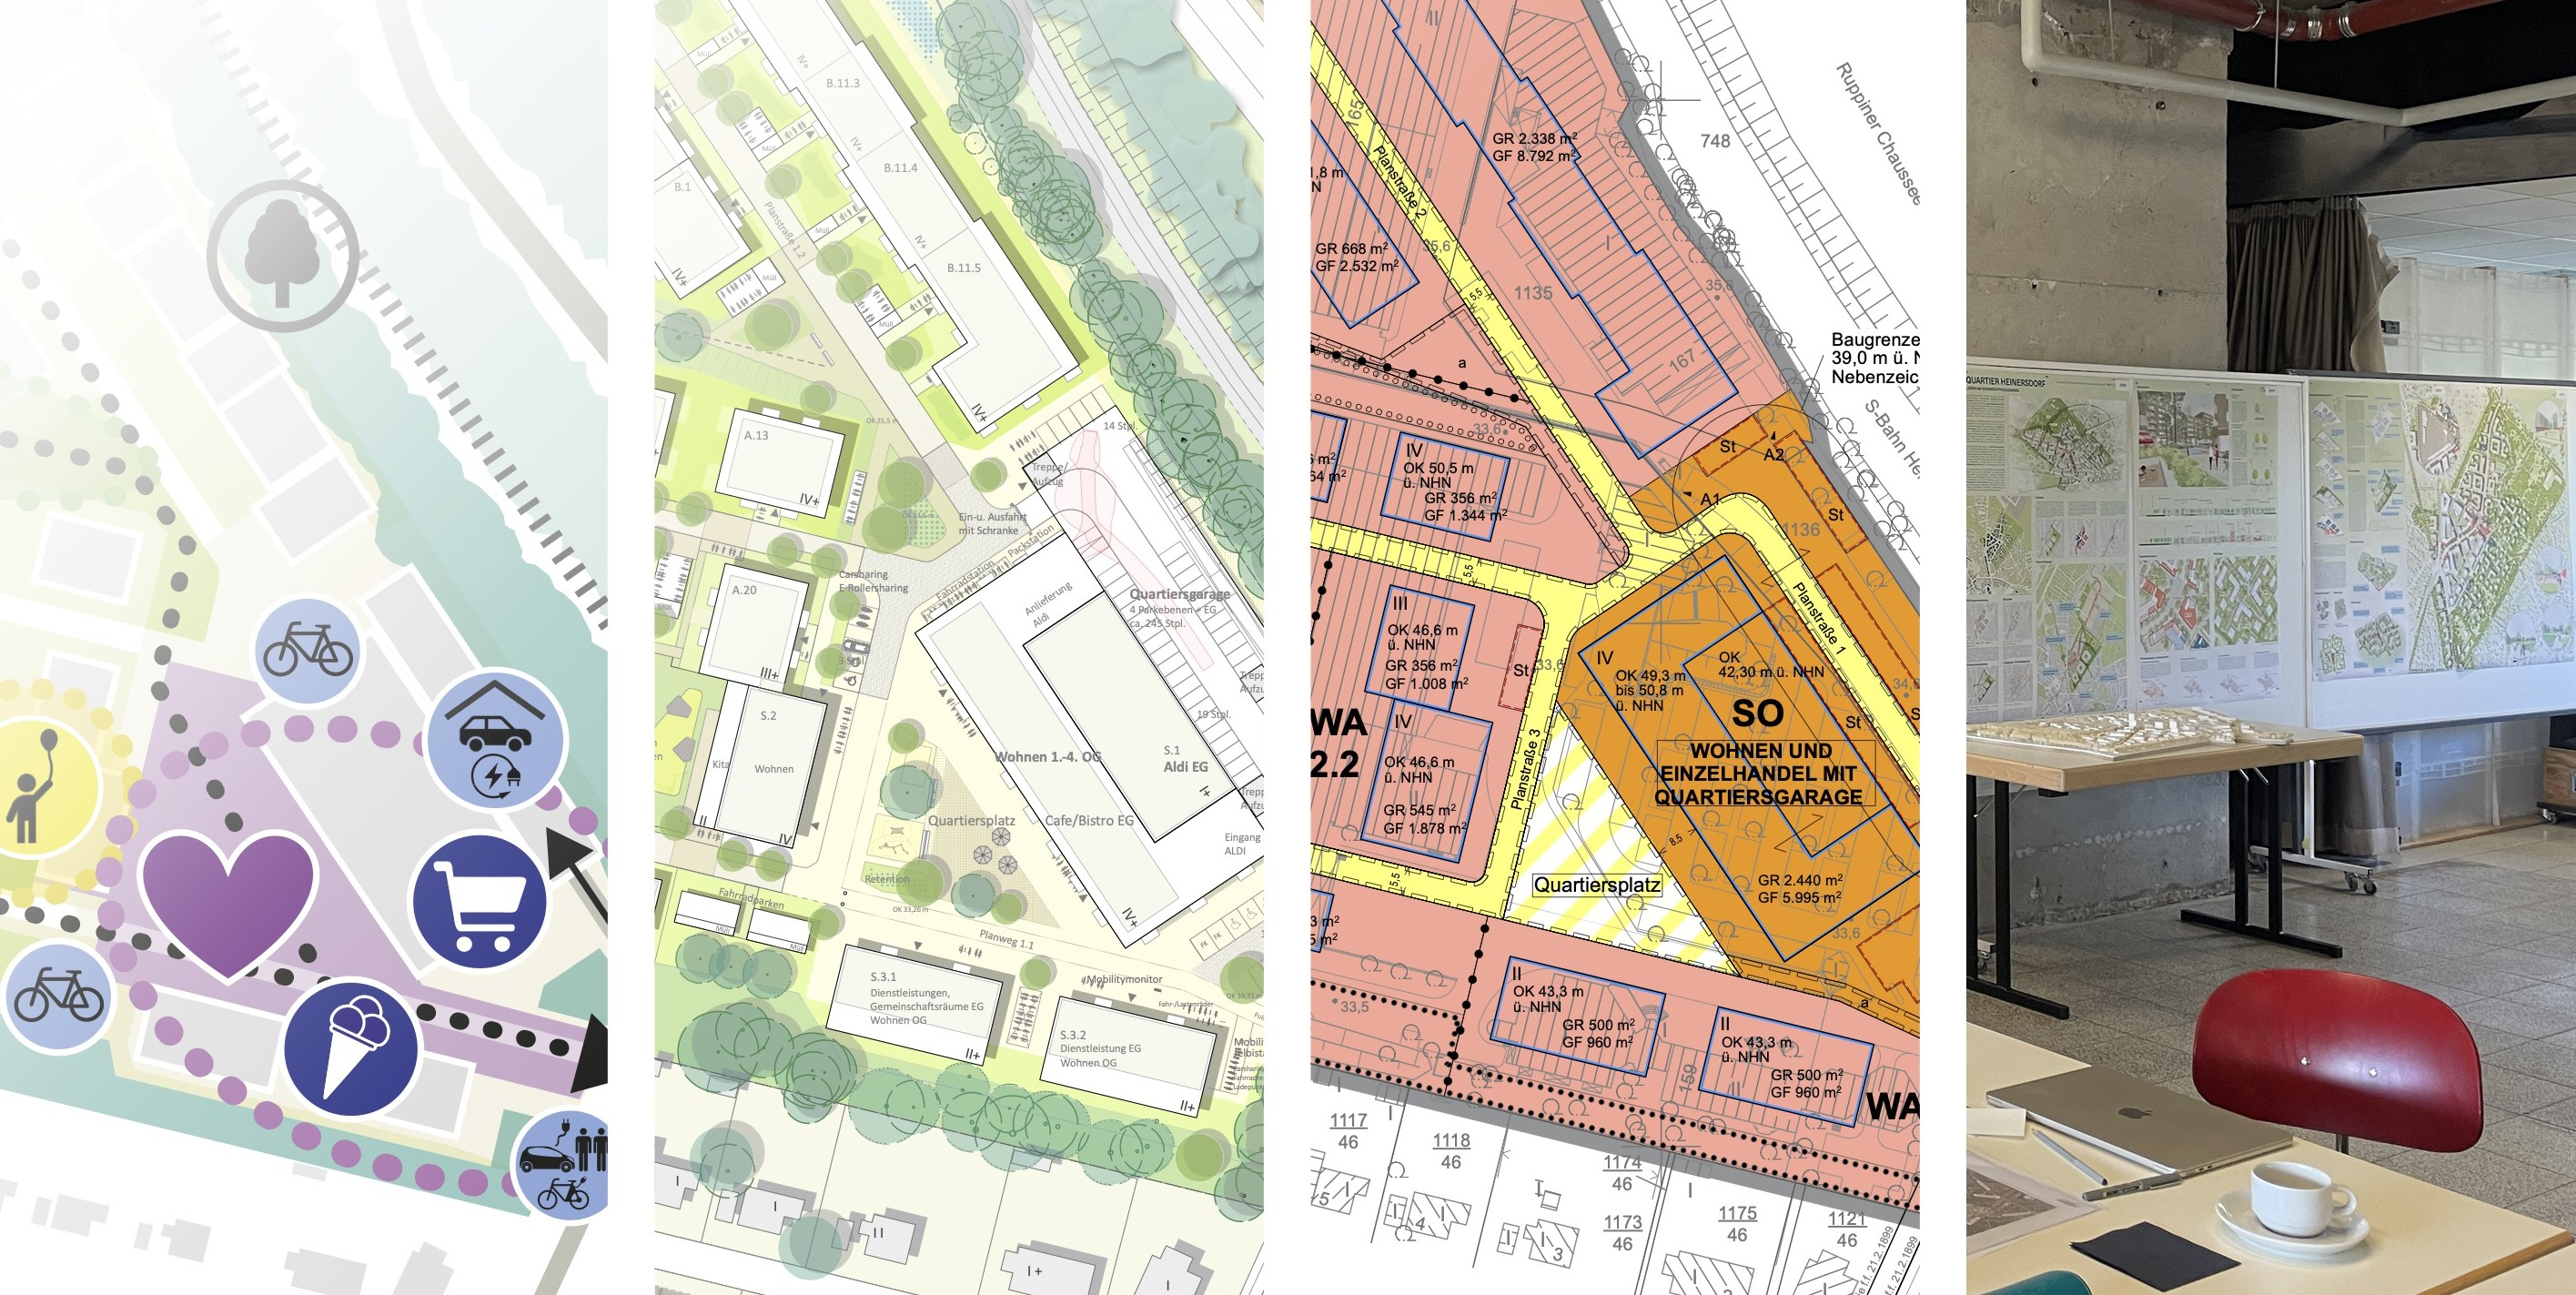
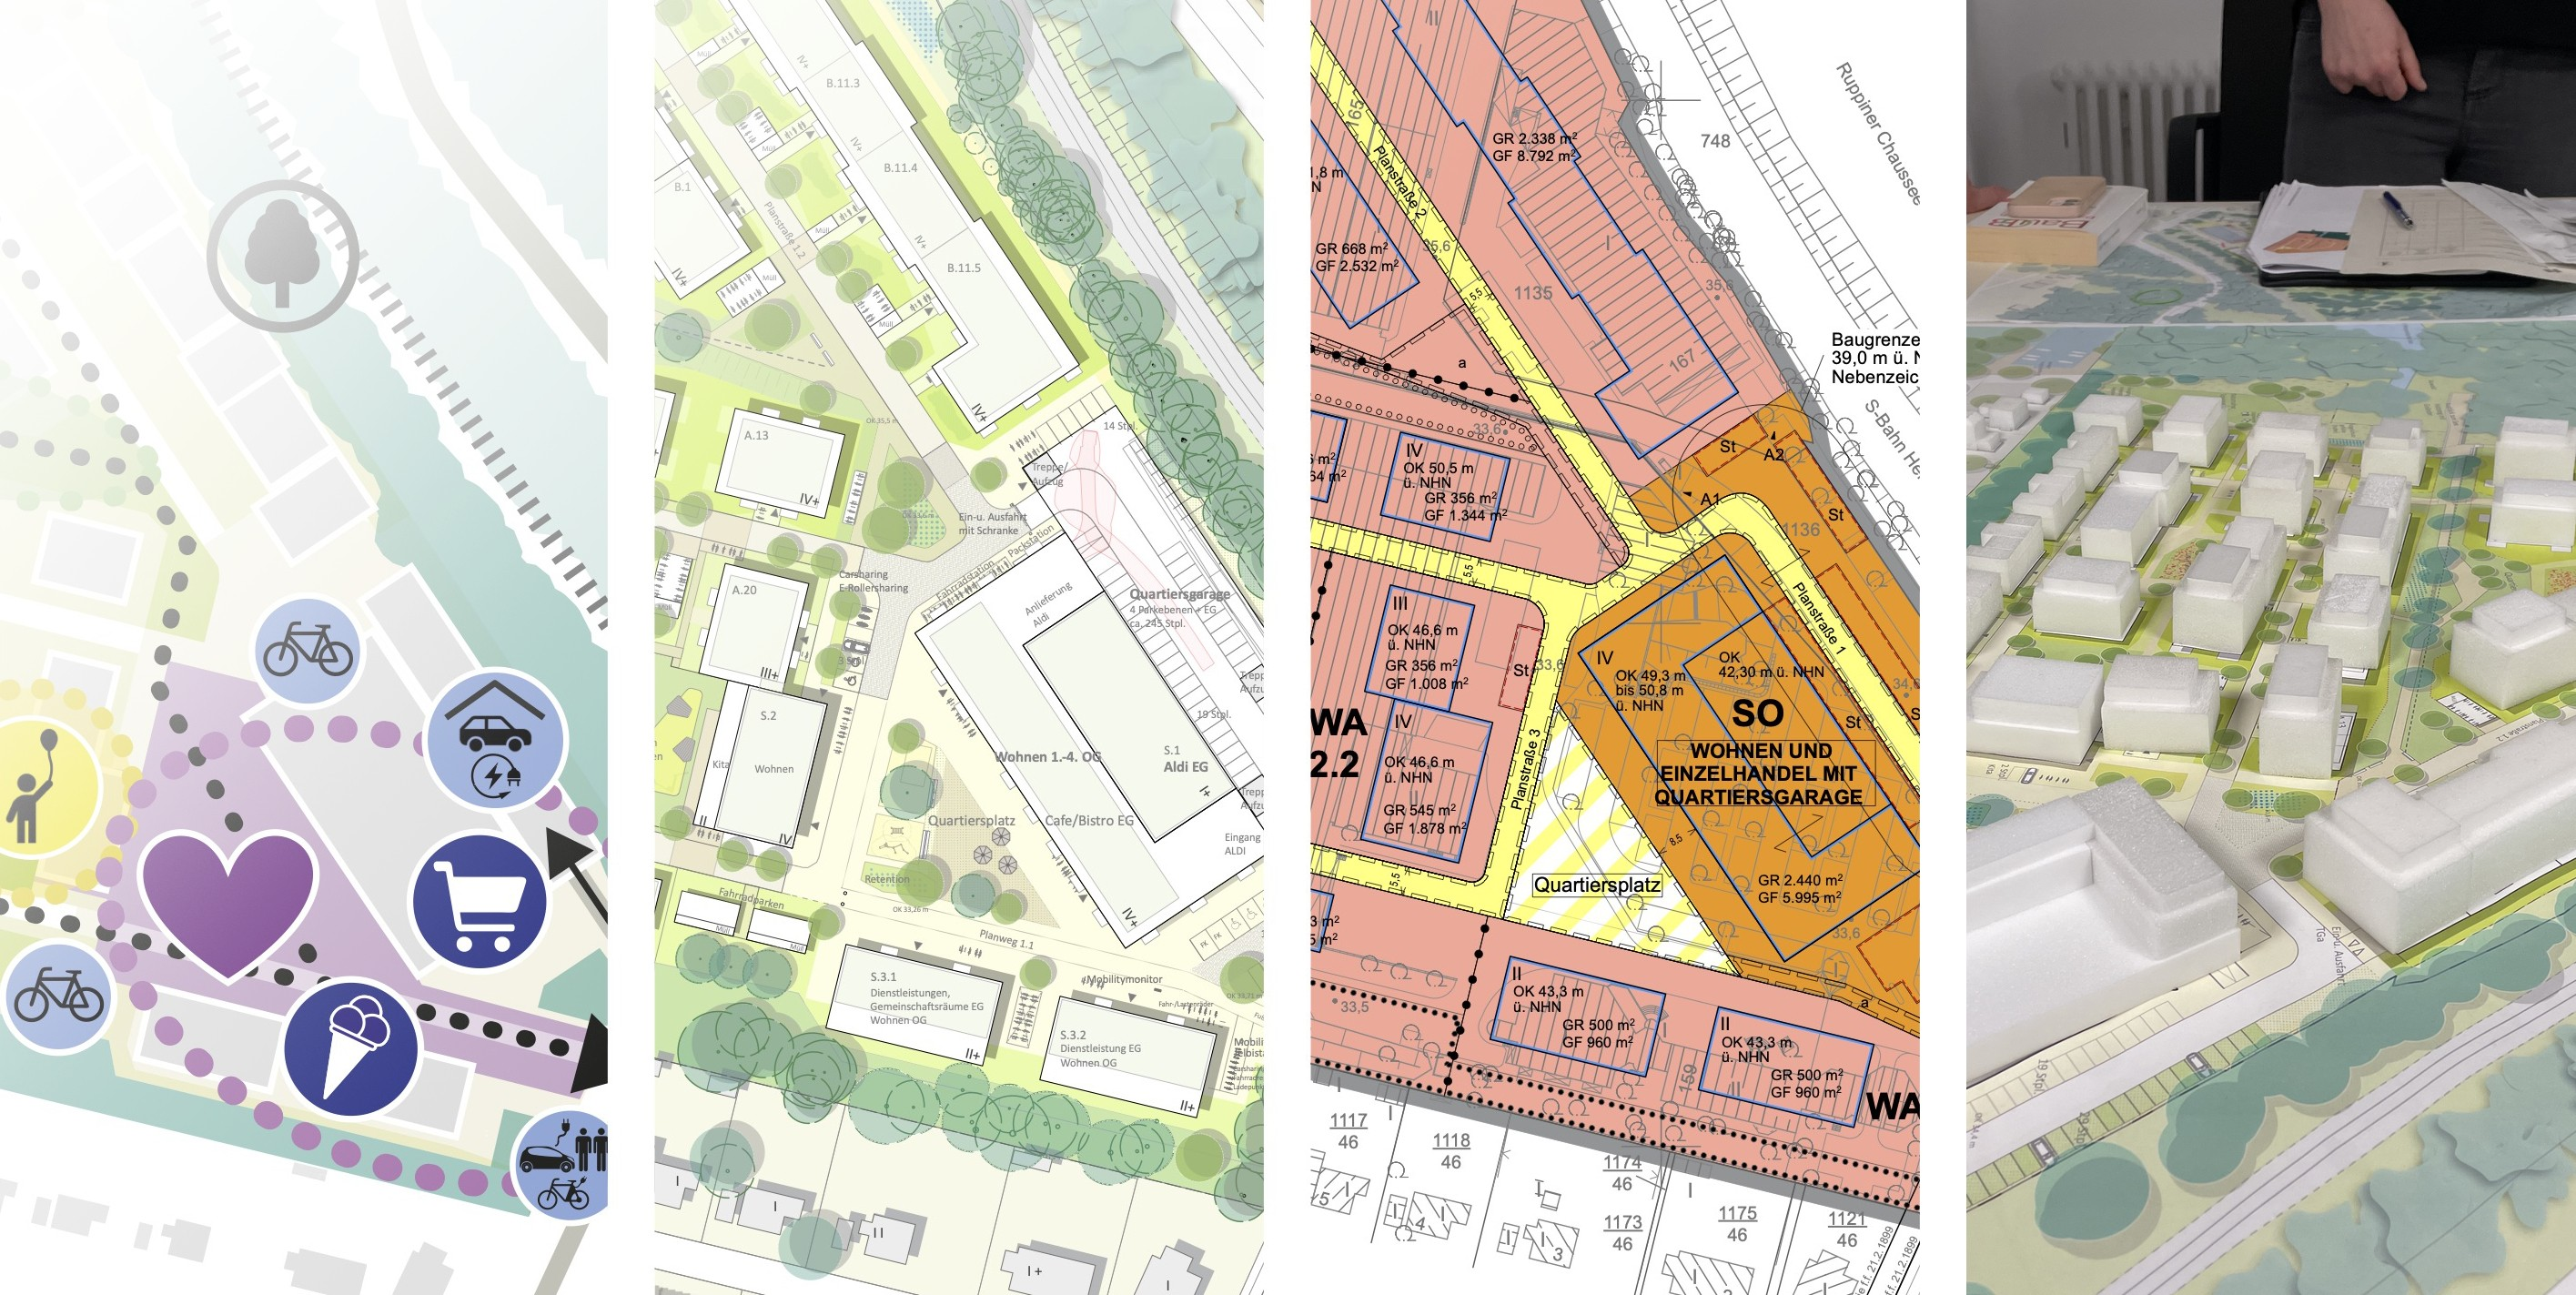
Home: fix hero hover/image misalignment across widths
Drop fixed heroHeight + objectFit:cover (which cropped the composite
when the guessed container width didn't match the real one) in favor
of height:auto. The image keeps its natural aspect ratio, so the
inset:0 hover overlay aligns to the strips at any screen width.

Changed region(s): [[0.746, 0.0, 1.0, 1.0]]

diff --git a/src/pages/Home.jsx b/src/pages/Home.jsx
@@ -53,15 +53,12 @@ export default function Home() {
   const contentCol = isMobile ? 'auto' : '3 / span 8'
   const contentColWide = isMobile ? 'auto' : '3 / span 9'
 
-  // The hero height must follow the image's exact aspect ratio so objectFit never
-  // crops it — any crop shifts the visible strips out from under the hover zones.
-  // Use the REAL container width (the app is capped at maxWidth 1400 in App.jsx, so
-  // window width overestimates it on wide screens) and floor() so the box aspect is
-  // never taller than the image (which would crop the sides and misalign segments).
+  // The hero image keeps its natural aspect ratio (height:auto, no objectFit:cover)
+  // so it is NEVER cropped — cropping would shift the visible strips out from under
+  // the fixed-percentage hover zones. The relative wrapper sizes itself to the image,
+  // so the inset:0 overlay matches the image box exactly at any screen width.
   // v4 composite is 2831×1423 (4 image strips + 3 white gaps).
   const contentWidth = Math.min(width, 1400)
-  const heroContainerWidth = contentWidth - 2 * hPad
-  const heroHeight = Math.floor(heroContainerWidth * (1423 / 2831))
 
   // Hero maps 4 service zones onto the v4 composite. Each image strip ≈ 23.6% wide.
   const heroPad = hPad * 2
@@ -83,7 +80,7 @@ export default function Home() {
         <img
           src={heroBild}
           alt="Deckblatt — Quartiersentwicklung, Lageplan & Bebauungsplan"
-          style={{ display: 'block', width: '100%', height: heroHeight, objectFit: 'cover' }}
+          style={{ display: 'block', width: '100%', height: 'auto' }}
         />
         <div style={{ position: 'absolute', inset: 0, display: 'flex' }}>
           {[